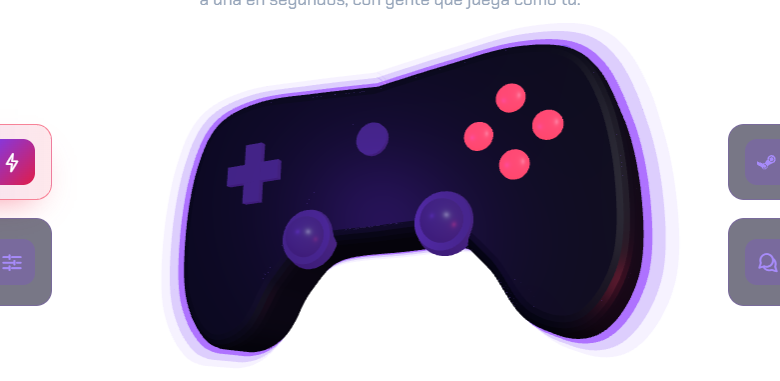
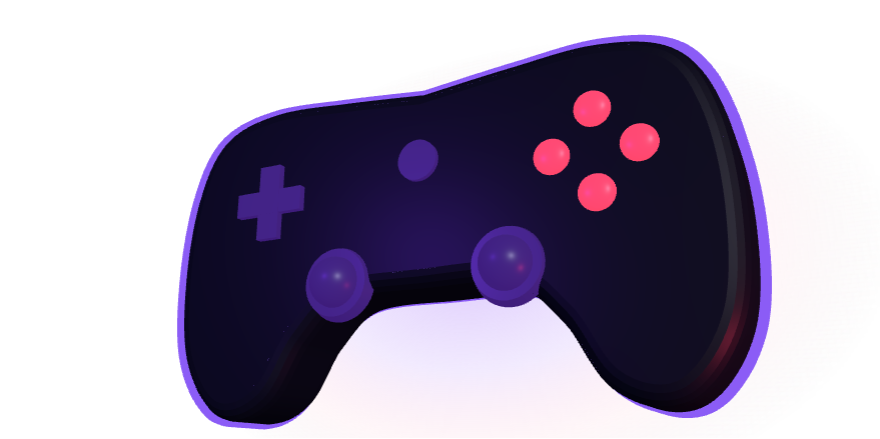
Portada, segunda ronda de la revisión: mando de ~600 px a 1440 (cámara más cerca, escenario más alto, CTA sigue a la vista), brillo suave detrás del cuerpo con un degradado radial aditivo en lugar de capas de borde duro, imagen fija regenerada solo con el lienzo (sin texto ni fichas encima, proceden

diff --git a/src/components/Landing/controller3d.js b/src/components/Landing/controller3d.js
@@ -70,24 +70,37 @@ const buildController = () => {
   // (técnica de "casco invertido"), centrado sobre el cuerpo
   bodyGeometry.computeBoundingBox();
   const center = bodyGeometry.boundingBox.getCenter(new THREE.Vector3());
-  // Dos capas: el trazo nítido y un halo aditivo más ancho que hace de brillo
-  const addRim = (scale, opacity, additive) => {
-    const material = track(new THREE.MeshBasicMaterial({
-      color: COLORS.rim,
-      side: THREE.BackSide,
-      transparent: true,
-      opacity,
-      depthWrite: false,
-      blending: additive ? THREE.AdditiveBlending : THREE.NormalBlending
-    }));
-    const rim = new THREE.Mesh(bodyGeometry, material);
-    rim.scale.setScalar(scale);
-    rim.position.copy(center).multiplyScalar(1 - scale);
-    group.add(rim);
-  };
-  addRim(1.03, 0.95, false);
-  addRim(1.075, 0.22, true);
-  addRim(1.12, 0.08, true);
+  // El trazo nítido del contorno
+  const rimScale = 1.03;
+  const rimMaterial = track(new THREE.MeshBasicMaterial({ color: COLORS.rim, side: THREE.BackSide }));
+  const rim = new THREE.Mesh(bodyGeometry, rimMaterial);
+  rim.scale.setScalar(rimScale);
+  rim.position.copy(center).multiplyScalar(1 - rimScale);
+  group.add(rim);
+
+  // Y su brillo: un plano detrás del cuerpo con un degradado radial suave
+  // (aditivo), en vez de un pase de bloom, para no cargar la GPU
+  const glowCanvas = document.createElement("canvas");
+  glowCanvas.width = 256;
+  glowCanvas.height = 256;
+  const ctx = glowCanvas.getContext("2d");
+  const gradient = ctx.createRadialGradient(128, 128, 0, 128, 128, 128);
+  gradient.addColorStop(0, "rgba(139, 92, 246, 0.55)");
+  gradient.addColorStop(0.45, "rgba(139, 92, 246, 0.22)");
+  gradient.addColorStop(0.75, "rgba(244, 63, 94, 0.07)");
+  gradient.addColorStop(1, "rgba(0, 0, 0, 0)");
+  ctx.fillStyle = gradient;
+  ctx.fillRect(0, 0, 256, 256);
+  const glowTexture = track(new THREE.CanvasTexture(glowCanvas));
+  const glowMaterial = track(new THREE.MeshBasicMaterial({
+    map: glowTexture,
+    transparent: true,
+    depthWrite: false,
+    blending: THREE.AdditiveBlending
+  }));
+  const glow = new THREE.Mesh(track(new THREE.PlaneGeometry(8.6, 5.4)), glowMaterial);
+  glow.position.set(center.x, center.y, -0.9);
+  group.add(glow);
 
   const front = depth / 2 + 0.22;
   const parts = {};
@@ -177,7 +190,7 @@ export const createControllerScene = (canvas, { reducedMotion = false } = {}) =>
 
   const scene = new THREE.Scene();
   const camera = new THREE.PerspectiveCamera(30, 1, 0.1, 100);
-  camera.position.set(0, 0.2, 9.4);
+  camera.position.set(0, 0.25, 8.7);
 
   scene.add(new THREE.AmbientLight(0xffffff, 0.55));
   const key = new THREE.DirectionalLight(0xffffff, 1.1);

diff --git a/src/components/Landing/Landing.css b/src/components/Landing/Landing.css
@@ -50,7 +50,7 @@
 
 .landing__controller {
   position: absolute;
-  inset: -40px 19% 10px;
+  inset: -44px 15% 6px;
   pointer-events: none;
 }
 
@@ -99,7 +99,7 @@
     "b . d";
   align-content: center;
   gap: 18px 24px;
-  min-height: 350px;
+  min-height: 400px;
 }
 
 .landing-reason:nth-child(1) { grid-area: a; }
@@ -668,8 +668,11 @@
     flex-direction: column-reverse;
   }
 
+  /* Una columna: el espacio reservado (la ficha más alta) queda debajo,
+     no entre el texto y la demo */
   .landing__panel {
     grid-template-columns: 1fr;
+    align-content: start;
     gap: 16px;
   }
 
